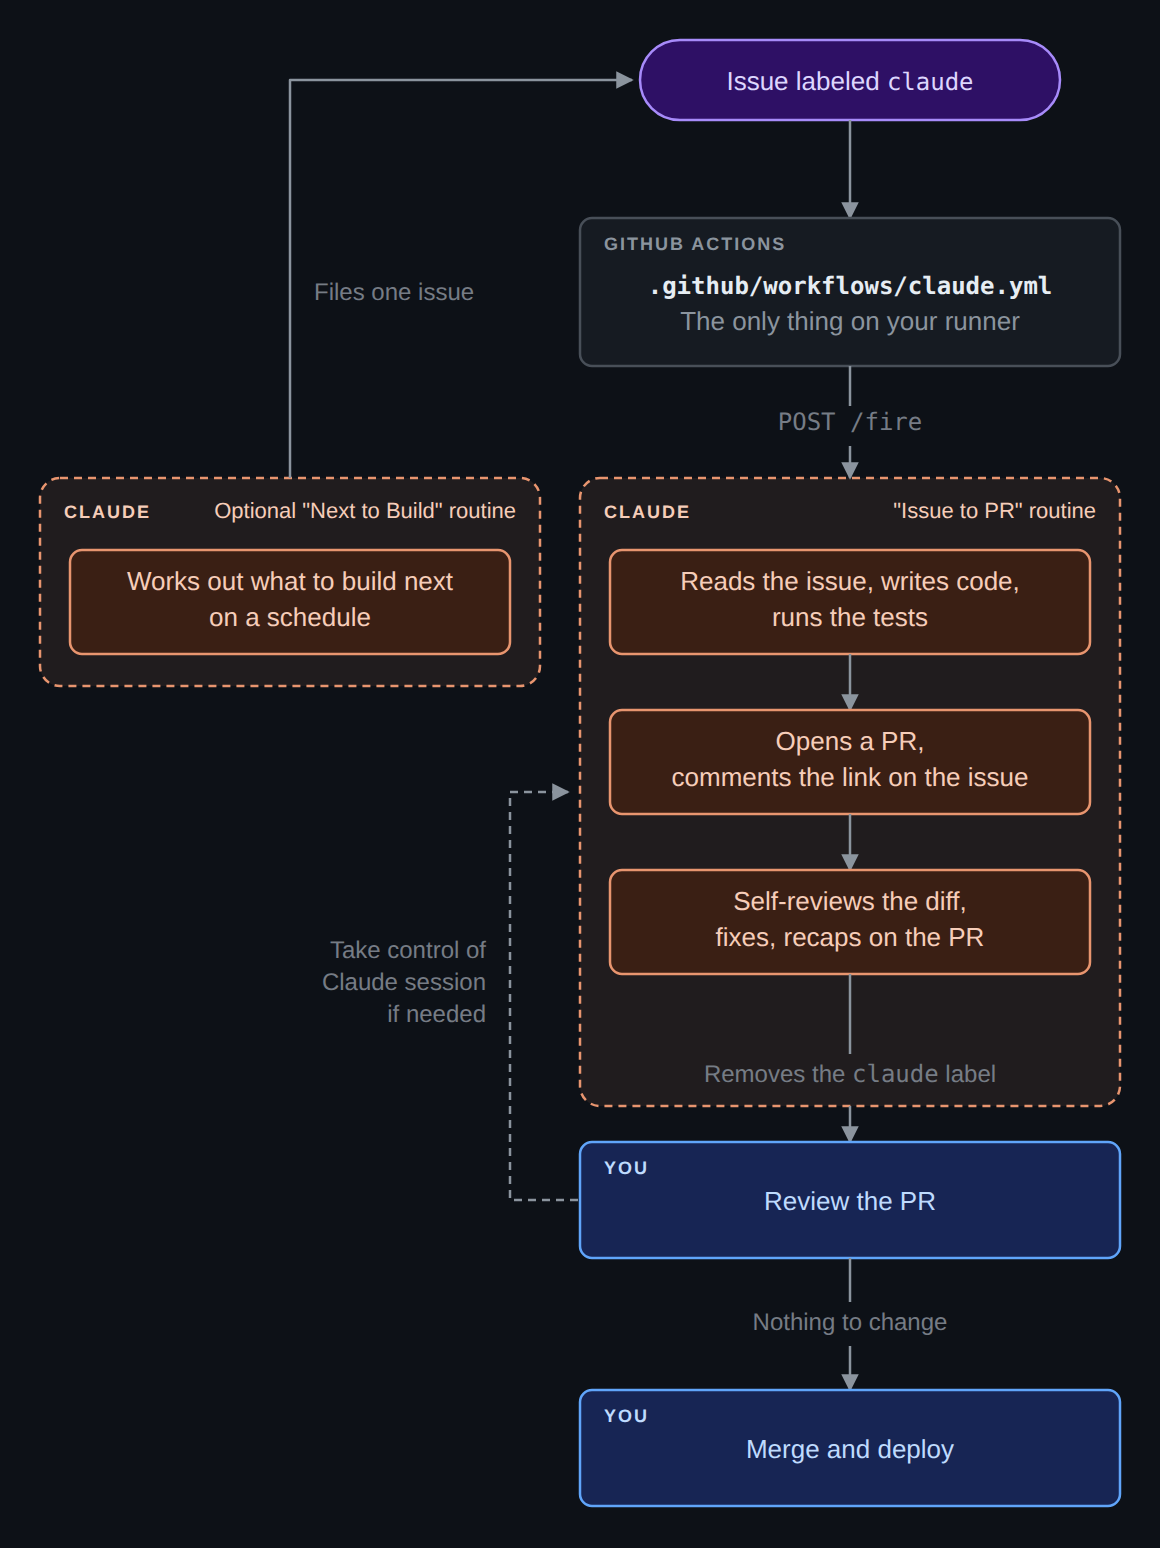
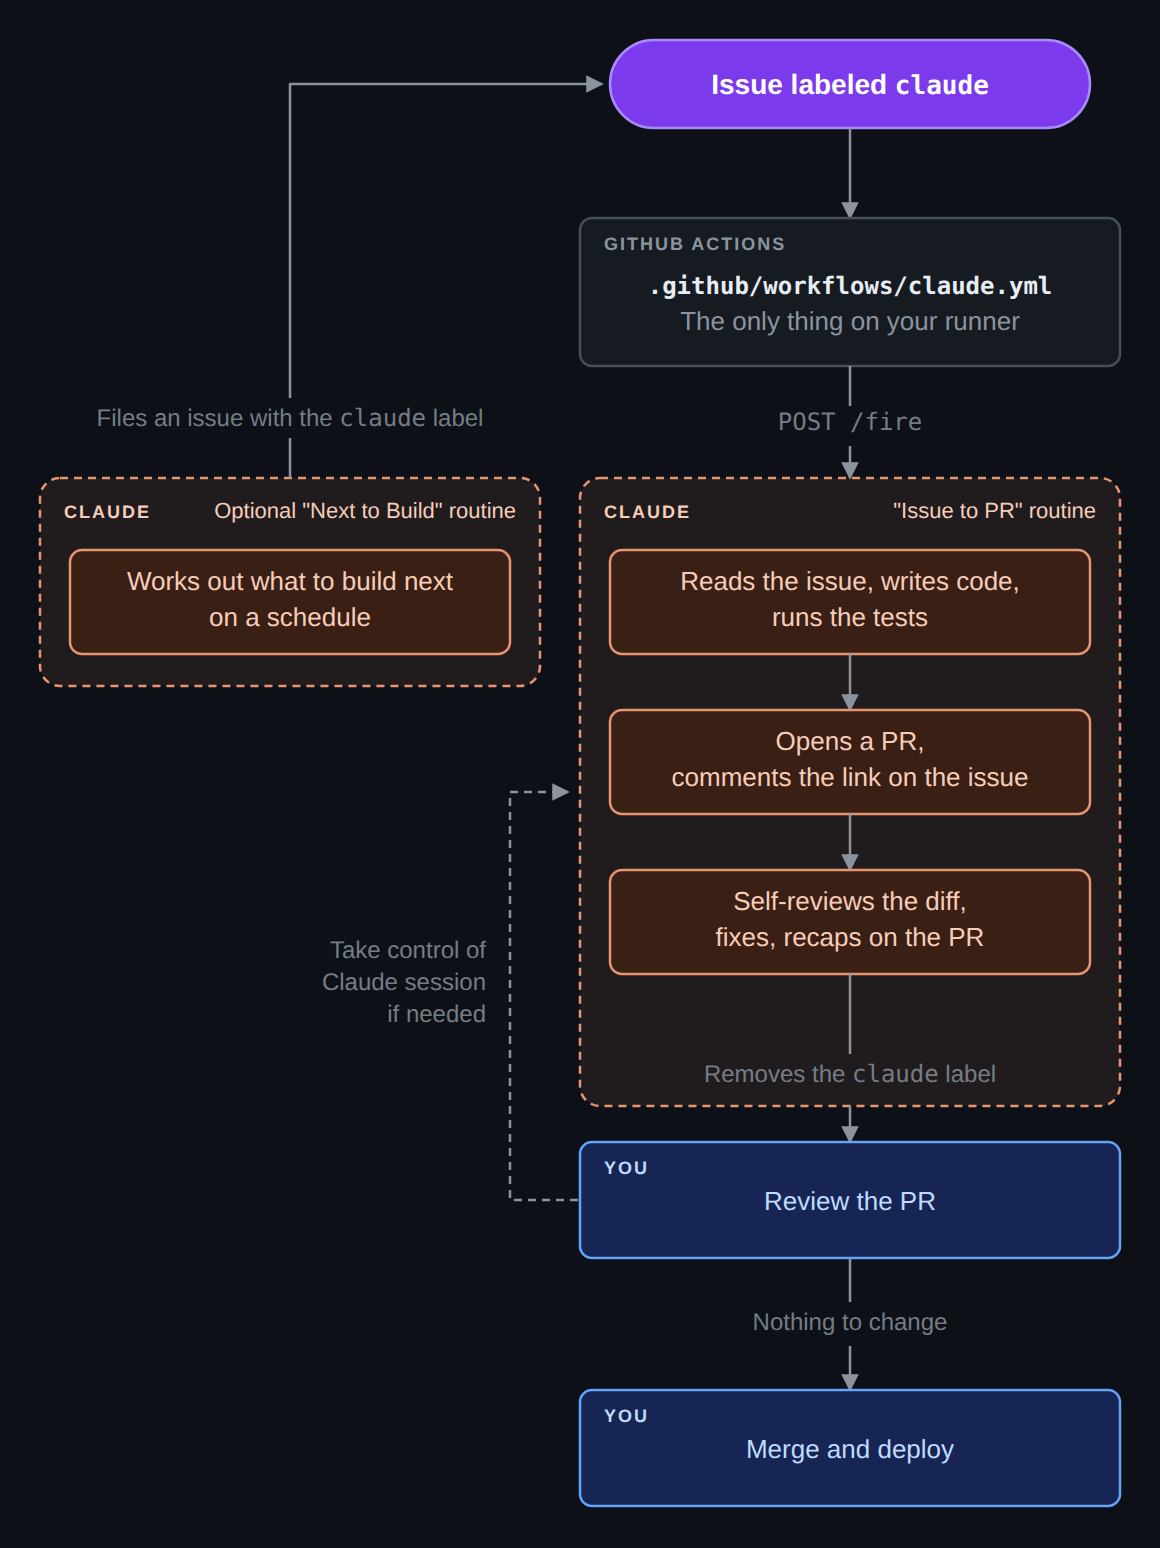
Put the filing note on the arrow and make the trigger the loudest thing
Claude-Session: https://claude.ai/code/session_01DQS8Sza5PYpUe81doZH9zT

Changed region(s): [[0.2483, 0.0, 0.9621, 0.093], [0.0931, 0.2481, 0.4034, 0.2791], [0.2793, 0.186, 0.4034, 0.2171]]

diff --git a/README.md b/README.md
@@ -128,7 +128,7 @@ It labels the issue as your GitHub user through the Claude GitHub App, so the la
 <p align="center">
   <picture>
     <source media="(prefers-color-scheme: dark)" srcset="docs/how-it-works-dark.svg">
-    <img src="docs/how-it-works-light.svg" width="580" alt="Optionally, the Next to Build routine works out what to build next on a schedule and files one issue. An issue labeled claude is the trigger, whether a human, a bot or that routine applies it; a GitHub Actions workflow POSTs /fire; the Issue to PR routine reads the issue, writes code, runs the tests, opens a PR, self-reviews it and removes the label. The human reviews the PR: if nothing needs to change they merge and deploy, otherwise they take control of the Claude session.">
+    <img src="docs/how-it-works-light.svg" width="580" alt="Optionally, the Next to Build routine works out what to build next on a schedule and files an issue with the claude label. An issue labeled claude is the trigger, whether a human, a bot or that routine applies it; a GitHub Actions workflow POSTs /fire; the Issue to PR routine reads the issue, writes code, runs the tests, opens a PR, self-reviews it and removes the label. The human reviews the PR: if nothing needs to change they merge and deploy, otherwise they take control of the Claude session.">
   </picture>
   <br/><sub><a href="https://claude.ai/artifact/L4yVFvUXqjVQN1fyGa4hPv">Source</a></sub>
 </p>
